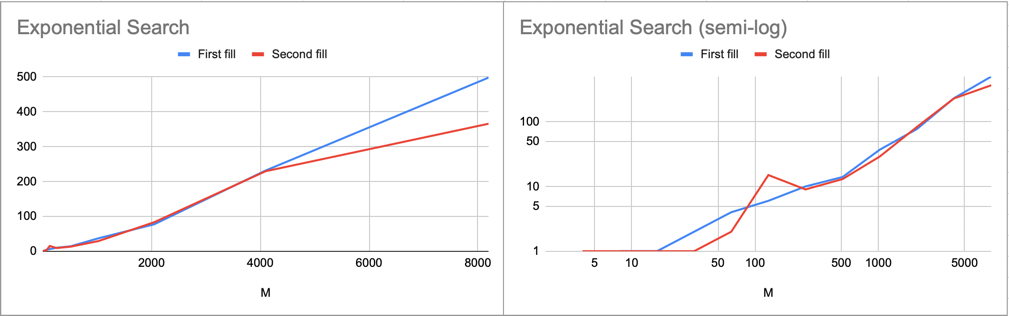
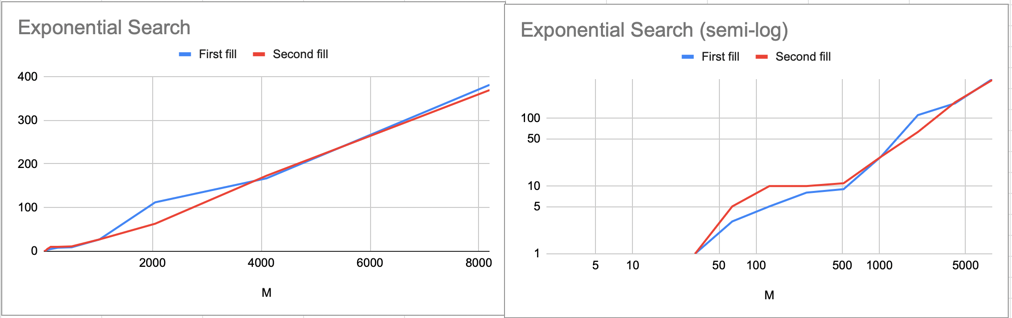
minor fixes + add expSerch

diff --git a/algorithms/exponentional/exp.cpp b/algorithms/exponentional/exp.cpp
@@ -19,11 +19,17 @@ pair<int, bool> binary2 (vector<int>& arr, int target, int leftPoz, int rightPoz
 }
 
 bool expSearch (std::vector<std::vector<int> >& arr, int target) {
-  int rightPoz = 8192;
+  int n = 8191;
   for (auto & i : arr){
-    pair rez = binary2(i, target, 0, rightPoz);
-    if (rez.second) {return true;}
-    rightPoz = rez.first;
+     for (int j = n, step = 2; j > -1; j-= step, step *=2){
+       if (i[j] < target){
+         pair rez = binary2(i, target, j, j + step);
+         if (rez.second) {return true;}
+         n = j;
+         break;
+       }
+       if (i[j] == target) {return true;}
+     }
   }
   return false;
 }

diff --git a/README.md b/README.md
@@ -39,7 +39,7 @@ https://github.com/ProbablyDead/algorithm/blob/f8e4a7baf4124ca099a6d5a773354c544
 >
 > * _Экспоненциальный поиск_
 > 
-> https://github.com/ProbablyDead/algorithm/blob/369fb63aef69fb3b4c17691d6b70604cfd24dd8c/algorithms/exponentional/exp.cpp#L31-L49
+> 
 
 ---
 
@@ -97,11 +97,13 @@ https://github.com/ProbablyDead/algorithm/blob/f8e4a7baf4124ca099a6d5a773354c544
 смещений по строкам нет 
 и приходится искать в каждой.
 * Бинарный очень неплохо справляется `с малыми объемами данных` (~ М < 100).
-* Поиск лесенкой наоборот, `очень долго работает на малых данных`, но на больших (M > 500), он `обгоняет бинарный`,
-после чего, начинает работать `быстрее экспоненциального` при `М > 5000` на первом заполнении и `М > 4000` на втором.
-Думаю, это обусловлено тем, что на больших объемах, кривая, по которой проходит поиск, стремится к диагональной прямой.
+* Самым быстрым почти на всех этапах оказался `экспоненциальный поиск`, кроме значений `m < 350` на втором заполнении. 
+Думаю, это происходит потому, что в отличие от лесенки, экспоненциальный поиск пропускает большие объемы данных, 
+но на малых данных он не успевает "набрать обороты" и не пропускает большую часть данных, к тому же его достаточно сильно 
+замедляет бинарный поиск на больших объемах.
 
-> __Итого:__ на малых данных быстрее всего работают `бинарный и экспоненциальный`, а 
-> на больших данных - `поиск лесенкой`.
+> __Итого:__ Самым быстрым оказался `экспоненциальный поиск` почти на всех данных,
+> самым медленным на малых данных - `поиск лесенкой`, самым медленным на больших - бинарный.
+> Но не стоит исключать тот факт, что экспоненциальный я, возможно, запускал с меньшим количеством открытых программ на ПК. 
 
 ### P.S. Excel report is [here](https://docs.google.com/spreadsheets/d/1FrxqawflBV525azESpkDQXcTIUvimMBtfz8EOFm53jg/edit?usp=sharing)
